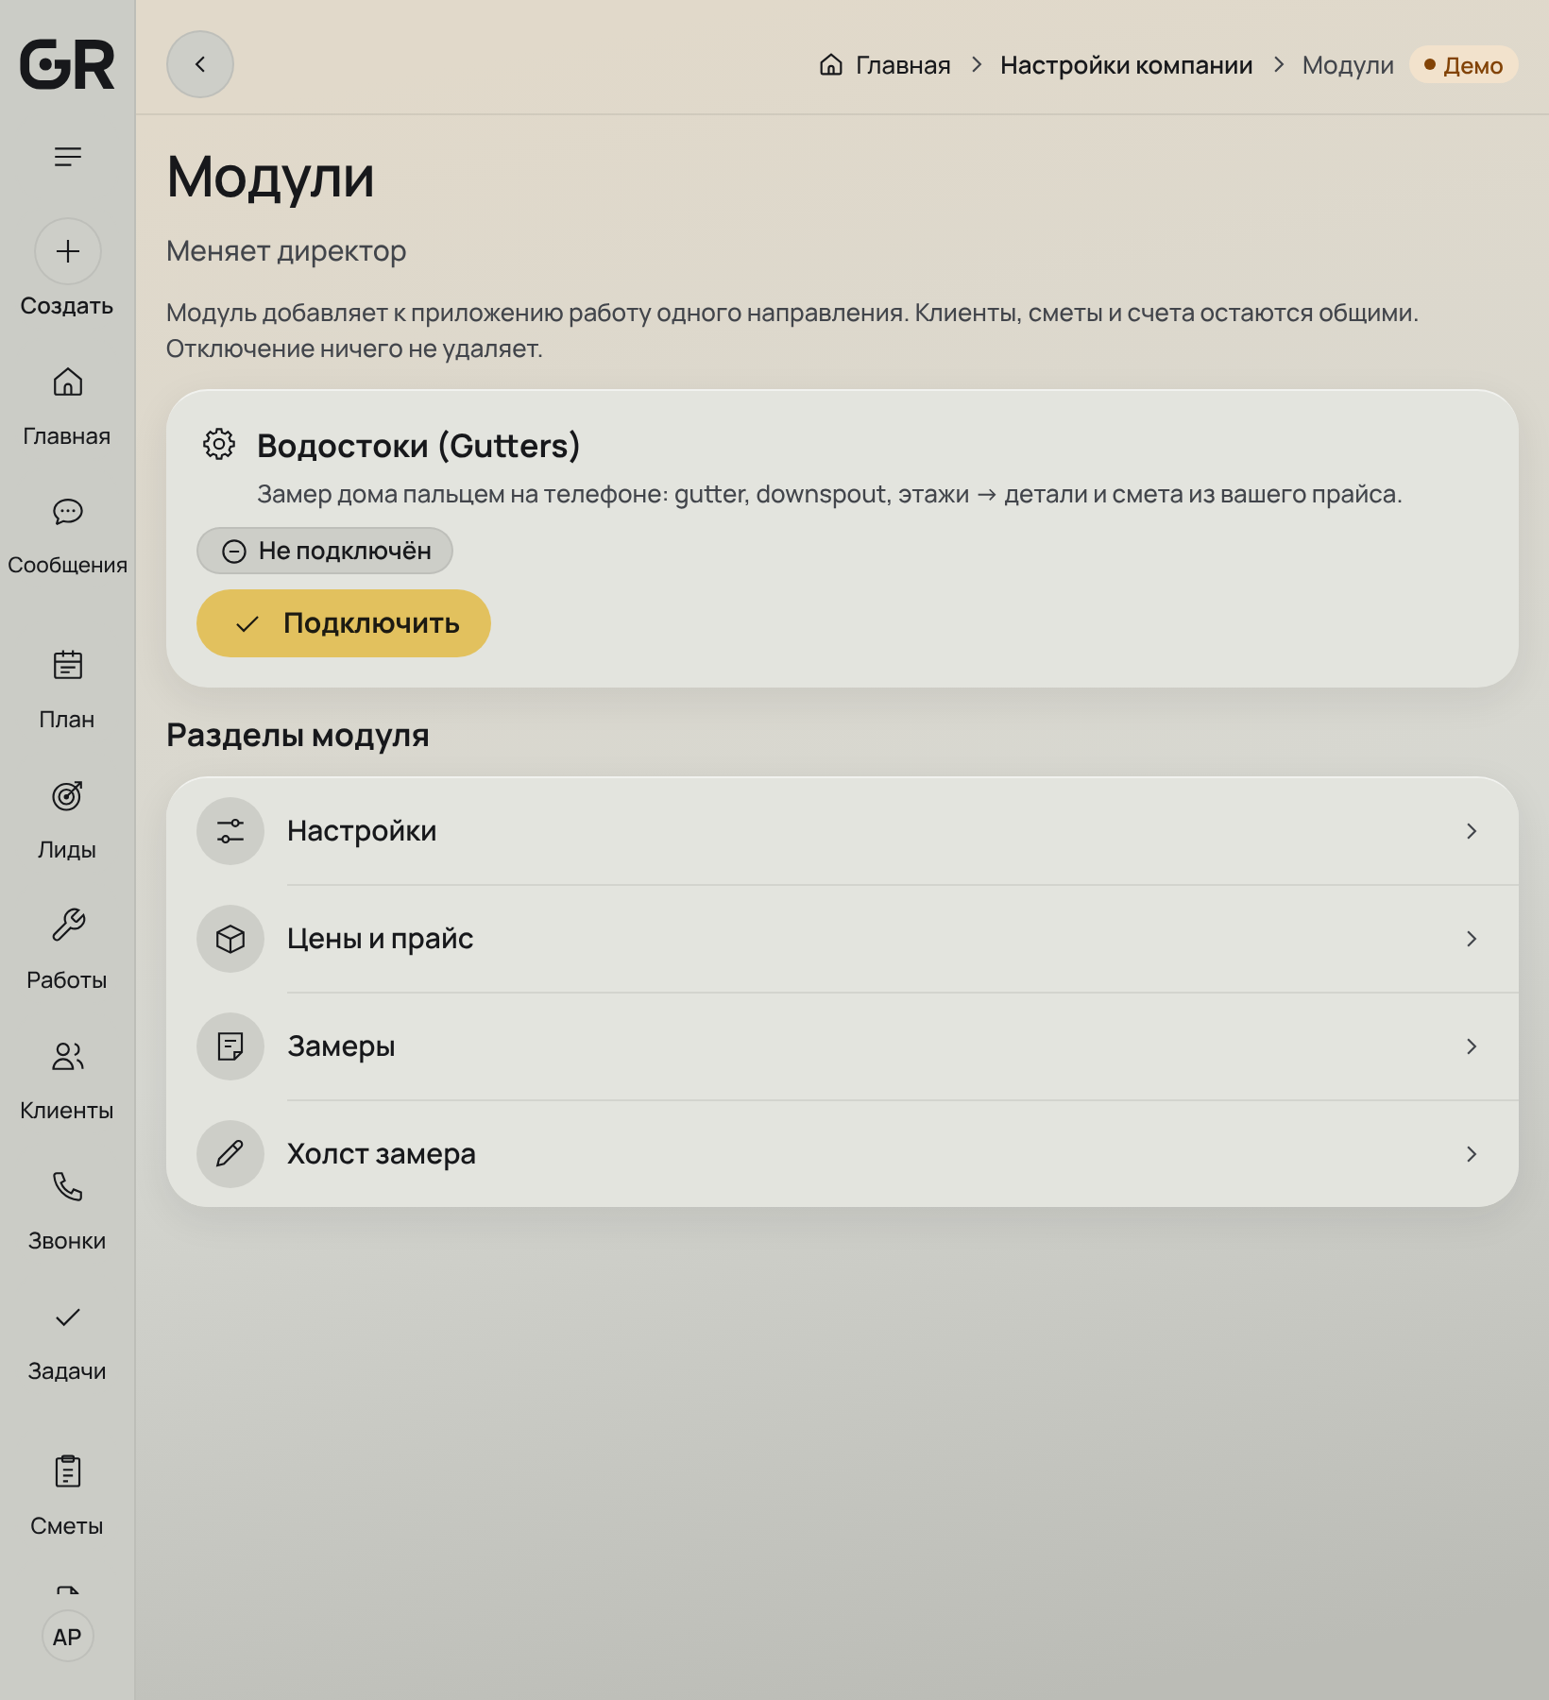
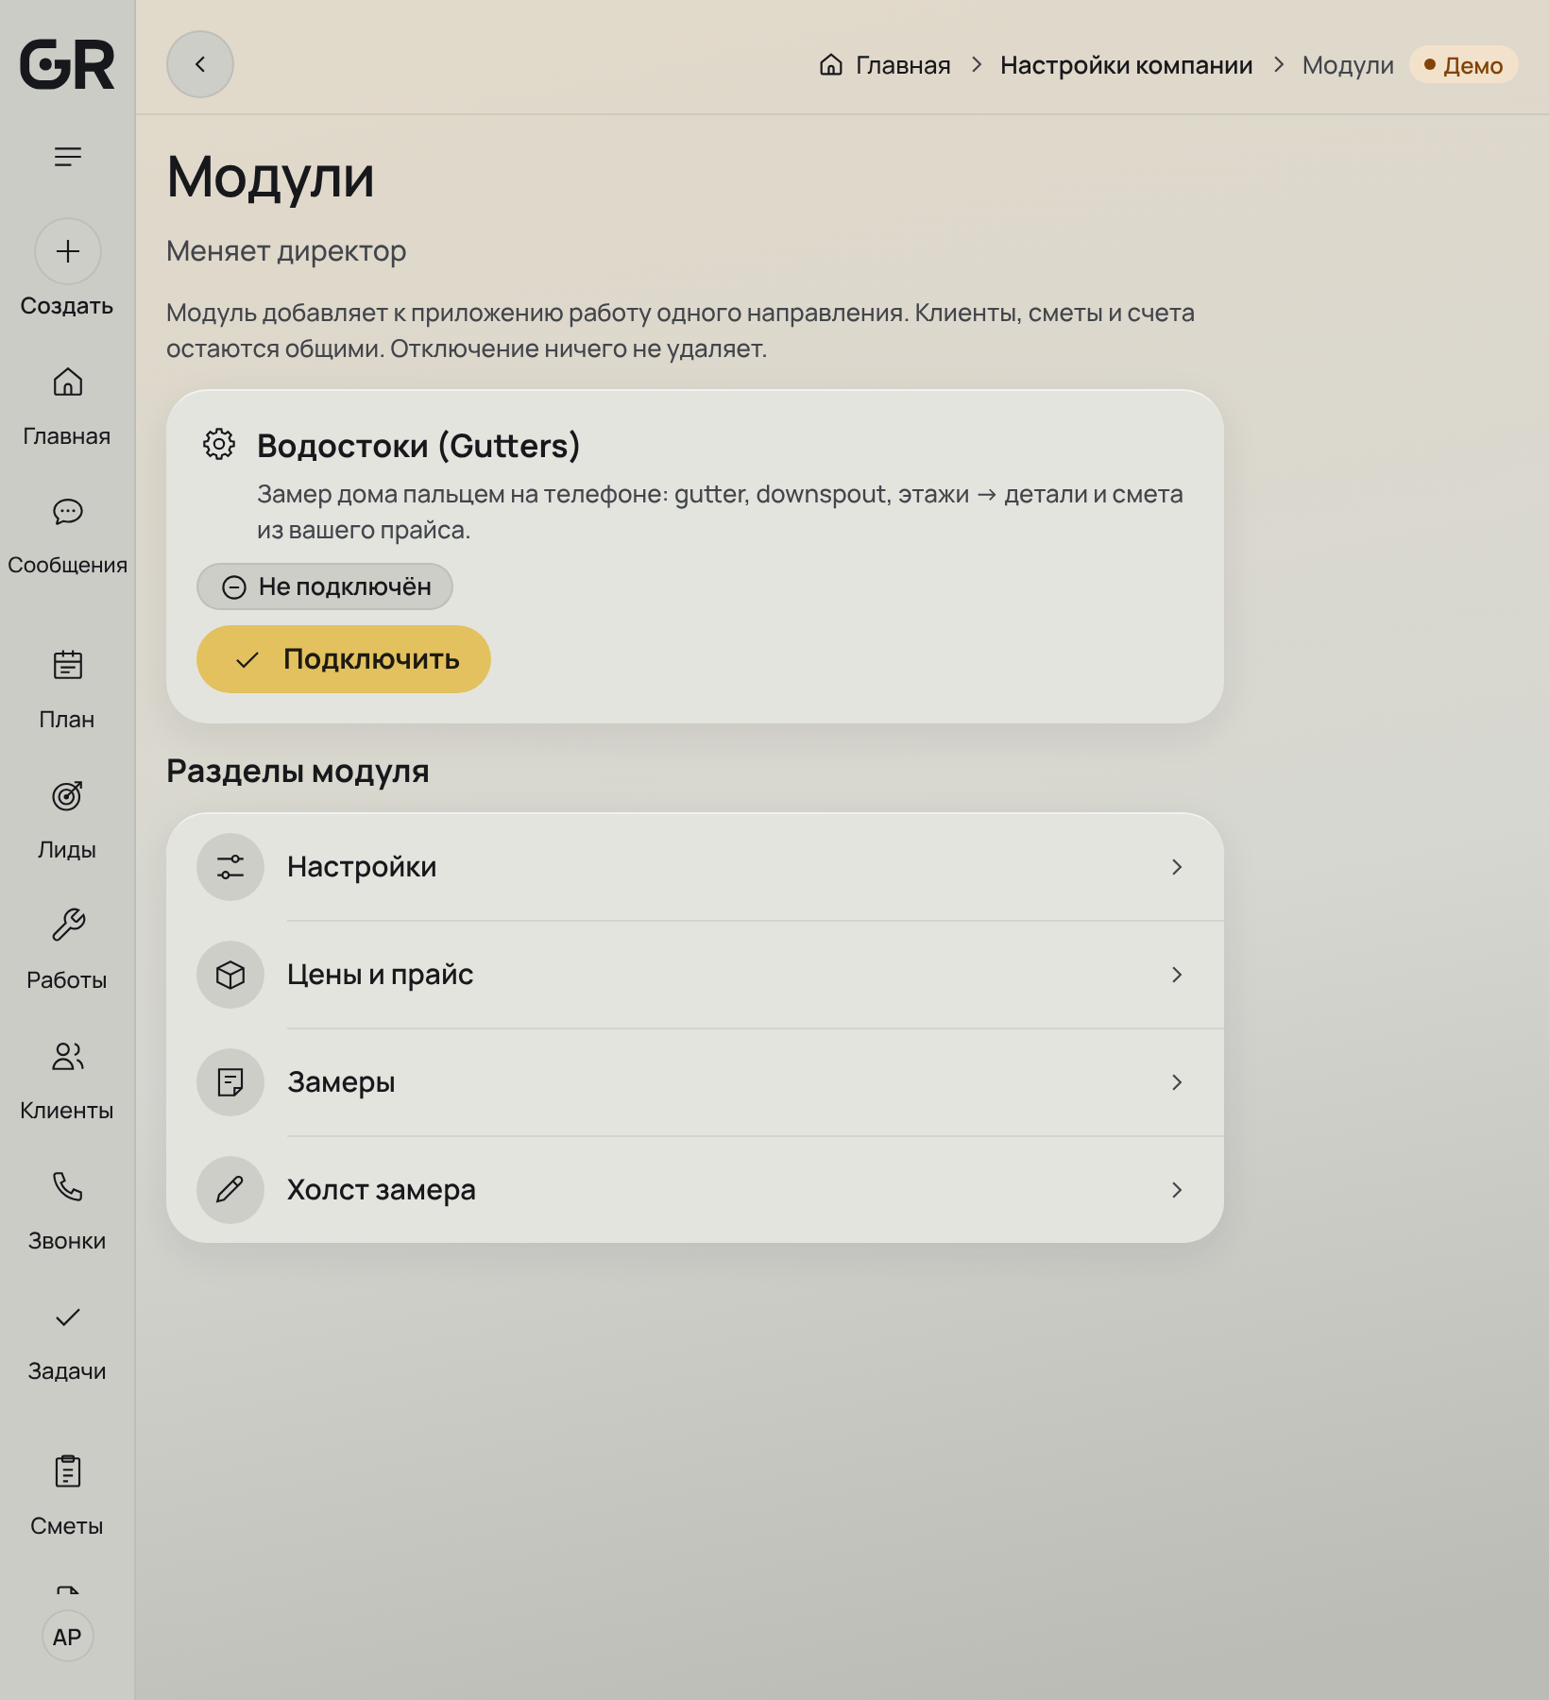
#3065: «Модули» по решению руководителя — «Отключить» красной строкой, у истёкшего только «Оплатить», офису «Только просмотр», колонка 560
Leader 27.11 (design/crm review advice): «Отключить» is the last row of its own group, a red word (ActionRow bad); an expired
trial shows only «Оплатить» (soon); the office's «Настройки» row says «Только просмотр»; the screen is a form column
(layout.formMax 560) on 820/1280. DS §7.5 says both (the danger row, the settings column). testIDs kept.

Claude-Session: https://claude.ai/code/session_015CqH66LwfSzhi561daugYm

diff --git a/apps/mobile/src/app/company/modules.tsx b/apps/mobile/src/app/company/modules.tsx
@@ -18,6 +18,7 @@ import { Icon, T } from "@/ui/primitives";
 import { useToast } from "@/ui/overlays";
 import { Card, Empty, RowView, Screen } from "@/ui/surfaces";
 import { GroupRow, ListGroup } from "@/ui/groupedList";
+import { ActionRow } from "@/ui/multiValueField";
 
 export default function CompanyModules() {
   const store = useStore();
@@ -36,13 +37,14 @@ export default function CompanyModules() {
   const saved = (key: Parameters<typeof t>[0]) => (store.online ? t(key) : t("offline.queued"));
   const noTerm = store.mode === "demo" || c.developerAccount === true;
 
-  // #3065 (founder 27.11, #3064): no column of buttons — the module's places are rows «›» of one group, and one main action
-  // («Подключить» / «Отключить»); only an expired trial has two side by side: «Оплатить» (off, soon) and «Отключить»
+  // #3065 (founder 27.11, #3064; DS §7.5): no column of buttons — one main action in the card («Подключить»; an expired trial —
+  // «Оплатить», soon); the module's places are rows «›» of one group; «Отключить» — the last row of the group, a red word (the iOS
+  // «Удалить приложение» row; leader 27.11: crm-reviewer's advice). The office sees «Настройки» with «Только просмотр».
   const card = (d: ModuleDef) => {
     const v = moduleView(c.modules?.[d.key]);
     const title = t(d.titleKey);
     const places = d.places?.settings?.({ role: store.role }, store.db.moduleData?.[d.key]) ?? [];
-    const enable =
+    const main =
       v.main === "start" || v.main === "resume" ? (
         <View testID={`module-${d.key}-enable`}>
           <Button
@@ -51,13 +53,12 @@ export default function CompanyModules() {
             onPress={() => toast.show(saved(v.main === "start" ? (noTerm ? "mod.startedNoTerm" : "mod.started") : "mod.resumed"), store.enableModule(d.key))}
           />
         </View>
+      ) : v.main === "pay" ? (
+        <View testID={`module-${d.key}-pay`} style={{ gap: space[1] }}>
+          <Button label={t("mod.pay")} icon="wallet" disabled onPress={() => {}} />
+          <T v="caption" tone="mut">{t("mod.paySoon")}</T>
+        </View>
       ) : null;
-    const pay = v.main === "pay" ? <View testID={`module-${d.key}-pay`} style={{ flex: 1 }}><Button label={t("mod.pay")} icon="wallet" disabled full onPress={() => {}} /></View> : null;
-    const disable = v.canDisable ? (
-      <View testID={`module-${d.key}-disable`} style={pay ? { flex: 1 } : undefined}>
-        <Button label={t("mod.disable")} variant="secondary" full={!!pay} onPress={() => toast.show(saved("mod.disabled"), store.disableModule(d.key))} />
-      </View>
-    ) : null;
     return (
       <View key={d.key} testID={`module-${d.key}`} style={{ gap: space[3] }}>
         <Card>
@@ -73,25 +74,35 @@ export default function CompanyModules() {
           </View>
           {noTerm ? null : <T v="caption" tone="mut">{t("mod.price", { days: d.trialDays, price: money(d.priceCentsMonthly) })}</T>}
           {v.locked ? <T v="caption">{t("mod.lockedHint")}</T> : null}
-          {ro ? null : pay ? (
-            <View style={{ gap: space[1] }}>
-              <RowView>{pay}{disable}</RowView>
-              <T v="caption" tone="mut">{t("mod.paySoon")}</T>
-            </View>
-          ) : enable ? enable : disable}
+          {ro ? null : main}
         </Card>
         {/* the module's own places (spec 33 П20.3): its tools that save nothing show for everyone, on or off — rows «›», not buttons */}
         <ListGroup title={t("mod.places")} testID={`module-${d.key}-places`}>
           {places.map((a) => (
-            <GroupRow key={a.id} testID={`module-${d.key}-${a.id}`} title={t(a.labelKey)} lead={{ icon: a.icon }} chevron onPress={() => router.push(a.href as never)} />
+            <GroupRow
+              key={a.id}
+              testID={`module-${d.key}-${a.id}`}
+              title={t(a.labelKey)}
+              subtitle={ro && a.id === "settings" ? t("mod.readOnly") : undefined}
+              lead={{ icon: a.icon }}
+              chevron
+              onPress={() => router.push(a.href as never)}
+            />
           ))}
         </ListGroup>
+        {!ro && v.canDisable ? (
+          <ListGroup>
+            <View testID={`module-${d.key}-disable`} style={{ paddingHorizontal: space[4] }}>
+              <ActionRow tone="bad" label={t("mod.disable")} onPress={() => toast.show(saved("mod.disabled"), store.disableModule(d.key))} />
+            </View>
+          </ListGroup>
+        ) : null}
       </View>
     );
   };
 
   return (
-    <Screen title={t("mod.title")} back={back} subtitle={t("schs.who")}>
+    <Screen title={t("mod.title")} back={back} subtitle={t("schs.who")} form>
       {ro ? <StatusChip status="info" label={t("fix.co.readOnly")} soft /> : null}
       <T v="caption" tone="mut">{t("mod.intro")}</T>
       {allModules().map(card)}

diff --git a/apps/mobile/src/i18n/ru.ts b/apps/mobile/src/i18n/ru.ts
@@ -3545,6 +3545,7 @@ export const ru = {
   "mod.tradesLink": "Дополнения для направления — например, замер дома на телефоне. Подключить и пробный период.",
   "mod.intro": "Модуль добавляет к приложению работу одного направления. Клиенты, сметы и счета остаются общими. Отключение ничего не удаляет.",
   "mod.places": "Разделы модуля",
+  "mod.readOnly": "Только просмотр",
   "mod.st.off": "Не подключён",
   "mod.st.disabled": "Отключён",
   "mod.st.trial": "Пробный · осталось {n} дн.",

diff --git a/apps/mobile/src/i18n/es.ts b/apps/mobile/src/i18n/es.ts
@@ -3545,6 +3545,7 @@ export const es: Dict = {
   "mod.tradesLink": "Complementos para un oficio — por ejemplo, medir una casa en el teléfono. Activar y la prueba gratis.",
   "mod.intro": "Un módulo agrega a la app el trabajo de un oficio. Clientes, presupuestos y facturas siguen siendo comunes. Desactivarlo no borra nada.",
   "mod.places": "Secciones del módulo",
+  "mod.readOnly": "Solo lectura",
   "mod.st.off": "No activado",
   "mod.st.disabled": "Desactivado",
   "mod.st.trial": "Prueba · quedan {n} días",

diff --git a/apps/mobile/src/i18n/en.ts b/apps/mobile/src/i18n/en.ts
@@ -3545,6 +3545,7 @@ export const en: Dict = {
   "mod.tradesLink": "Add-ons for a trade — for example, measuring a house on the phone. Turn on and the free trial.",
   "mod.intro": "A module adds the work of one trade to the app. Clients, estimates and invoices stay shared. Turning it off deletes nothing.",
   "mod.places": "Module sections",
+  "mod.readOnly": "View only",
   "mod.st.off": "Not on",
   "mod.st.disabled": "Turned off",
   "mod.st.trial": "Trial · {n} days left",

diff --git a/design/naryad-ds/DESIGN-SYSTEM.md b/design/naryad-ds/DESIGN-SYSTEM.md
@@ -597,7 +597,9 @@
 - **Переходы и разделы — не кнопки.** «Настройки», «Цены и прайс», «Замеры», «Шаблоны», «Холст» и всё, что открывает другой экран, — строки `GroupRow` с «›» в группе `ListGroup` (правило 12; значок слева, слово, «›» справа), как ячейки iOS «Настройки».
 - **Редкие и прочие действия — в «⋯»** (`ActionMenu`, Б4): «Изменить», «PDF», «Поделиться», «В архив», «Удалить». Опасное — последним, красным словом.
 - **Кнопки не переносятся столбиком.** Три и больше кнопок одна под другой (или рядом) в одном контейнере — ошибка: что-то из них — переход (строка), что-то — редкое («⋯»). Исключение — подвал шторки и диалог, где HIG ставит подтверждение над отменой (§7.3, Б1), и не больше двух.
-- **Как выглядит правильно** (образец — «Компания → Модули», #3065): карточка — имя, статус (значок + слово), одна главная кнопка («Подключить» / «Отключить»); под ней группа «Разделы модуля» — строки «›».
+- **Опасное и редкое действие объекта на экране настроек** («Отключить модуль», «Удалить …») — не кнопка рядом с главной, а последняя строка группы красным словом (`ActionRow tone="bad"`), как «Удалить приложение» в iOS; возврат — тост «Вернуть» (правило 5).
+- **Экраны настроек на 820/1280 — колонкой `layout.formMax` 560** (`Screen form`): строки «›» не растягиваются на всю ширину, «›» стоит рядом со словом (руководитель 27.11, совет design-reviewer).
+- **Как выглядит правильно** (образец — «Компания → Модули», #3065): карточка — имя, статус (значок + слово), одна главная кнопка («Подключить»; у истёкшего пробного — «Оплатить»); под ней группа «Разделы модуля» — строки «›» (у офиса на «Настройках» подпись «Только просмотр»); последней — строка «Отключить» красным словом.
 - **Сторож** — `designSystem.test.ts` «no column of buttons»: в одном JSX-контейнере ≥ 3 кнопок `Button` (с обёрткой `View` и условием `cond ? <Button/> : …`; `.map(…)` кнопок считается как 3) — красный. Старые места — список `BUTTON_COLUMNS_LEFT` по файлам с числом, он только сокращается (правило 29); исправляются волнами по зонам (#3065 прочёс).
 - **Витрина:** «Кнопки» → «Не столбик кнопок · §7.5» — «неправильно» (столбик) и «правильно» (одна главная + строки «›») рядом.
 
